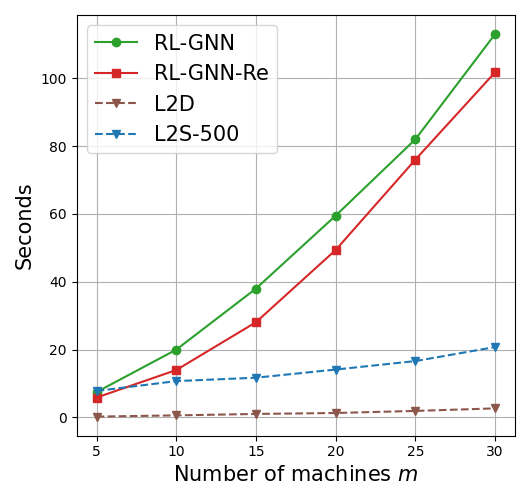
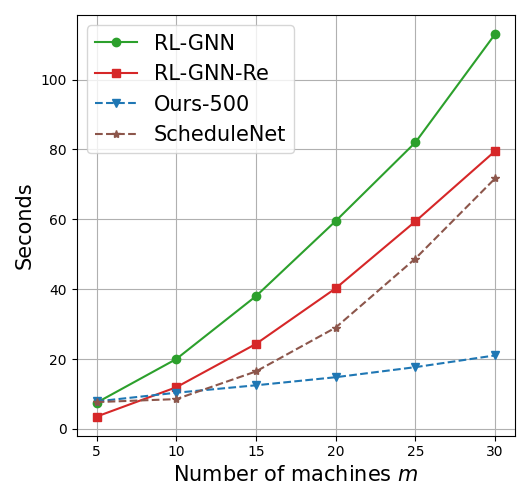
upload plt and plt data

diff --git a/plt/plot_complexity.py b/plt/plot_complexity.py
@@ -2,19 +2,19 @@ import numpy as np
 import matplotlib.pyplot as plt
 
 
-fixed = 'm=5'  # 'j=30', 'm=5'
+fixed = 'j=30'  # 'j=30', 'm=5'
 datas = [
     'RL-GNN_complexity_fixed_{}.npy'.format(fixed),
     'RL-GNN_complexity_fixed_{}_reimplement.npy'.format(fixed),
     'L2D_complexity_fixed_{}.npy'.format(fixed),
-    'L2S_complexity_fixed_{}_[500].npy'.format(fixed)
+    'L2S_complexity_fixed_{}_[500].npy'.format(fixed),
+    'ScheduleNet_complexity_{}_reimplement.npy'.format(fixed),
 ]
 
 times_for_plot = []
 
 for data in datas:
-    times_for_plot.append(np.load(data))
-
+    times_for_plot.append(np.load(data).reshape(-1))
 x_labels = [str(5+5*i) for i in range(times_for_plot[1].shape[0])]
 
 # plot parameters
@@ -27,23 +27,27 @@ save = True
 save_file_type = '.png'
 
 
-# obj1 = times_for_plot[0]  # RL-GNN
+obj1 = times_for_plot[0]  # RL-GNN
 obj2 = times_for_plot[1]  # RL-GNN Reimplement
 # obj3 = times_for_plot[2]  # L2D
-# obj4 = times_for_plot[3][:, 0].reshape(-1)  # ours-500
+obj4 = times_for_plot[3]  # ours-500
+obj5 = times_for_plot[4]  # ScheduleNet
 
 # plotting...
 plt.figure(figsize=(5.3, 5))
-# plt.xlabel('Number of jobs {}'.format(r'$n$'), {'size': x_label_scale})
-plt.xlabel('Number of machines {}'.format(r'$m$'), {'size': x_label_scale})
+if fixed == 'm=5':
+    plt.xlabel('Number of jobs {}'.format(r'$n$'), {'size': x_label_scale})
+elif fixed == 'j=30':
+    plt.xlabel('Number of machines {}'.format(r'$m$'), {'size': x_label_scale})
 
 plt.ylabel('Seconds', {'size': y_label_scale})
 plt.grid()
 x = np.array(x_labels)
-# plt.plot(x, obj1, color='tab:green', marker="o", label='RL-GNN')
+plt.plot(x[:obj1.shape[0]], obj1, color='tab:green', marker="o", label='RL-GNN')
 plt.plot(x, obj2, color='tab:red', marker="s", label='RL-GNN-Re')
 # plt.plot(x, obj3, color='tab:brown', linestyle="--", marker="v", label='L2D')
-# plt.plot(x, obj4, color='tab:blue', linestyle="--", marker="v", label='L2S-500')
+plt.plot(x, obj4, color='tab:blue', linestyle="--", marker="v", label='Ours-500')
+plt.plot(x, obj5, color='tab:brown', linestyle="--", marker="*", label='ScheduleNet')
 
 plt.tight_layout()
 plt.legend(fontsize=anchor_text_size)

diff --git a/rollout.py b/rollout.py
@@ -75,7 +75,7 @@ if __name__ == "__main__":
     save_dir = 'plt/ScheduleNet_complexity_{}_reimplement.npy'.format(setting)
 
     print('Warm start...')
-    for p_m, p_j in zip([3], [3]):  # select problem size
+    for p_m, p_j in zip([5], [5]):  # select problem size
         s = Simulator(p_m, p_j, verbose=False, detach_done=True)
         _, t, _ = rollout(s, dev, embedding_net=tga, policy_net=policy, verbose=False)
 
